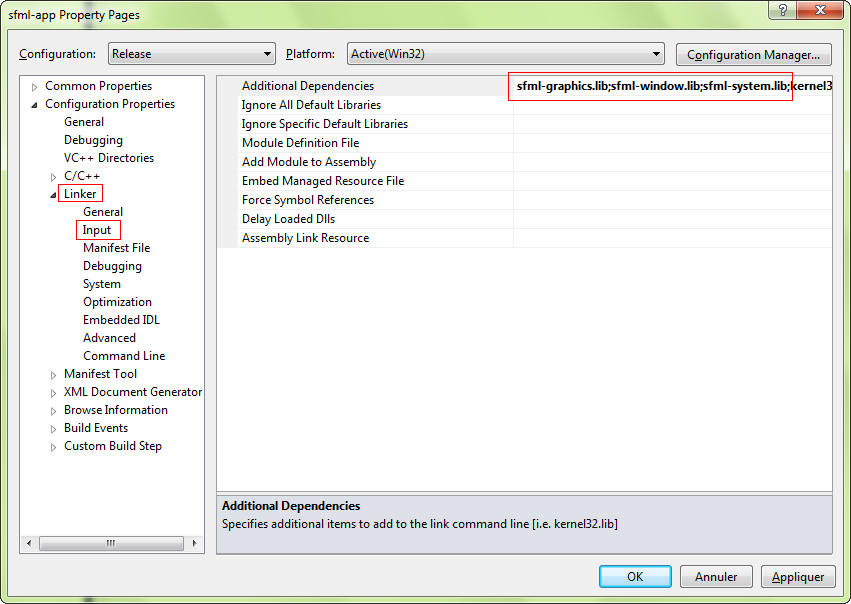
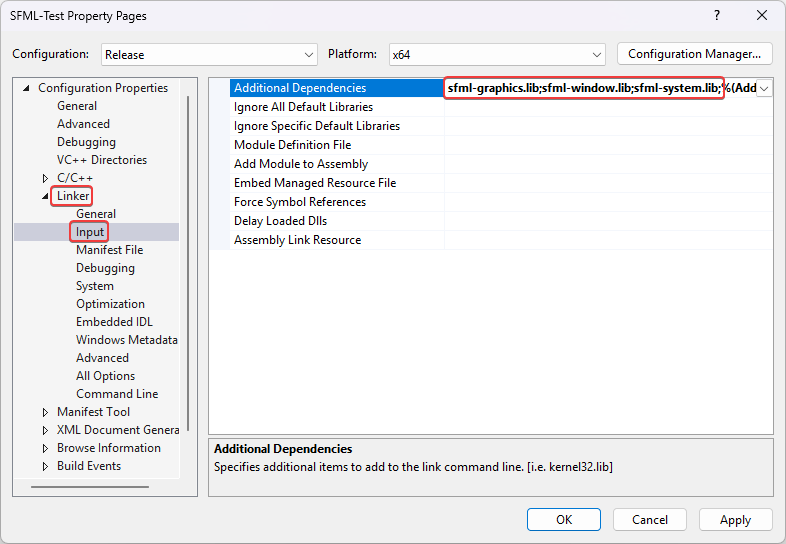
Update images for the Code::Blocks and Visual Studio tutorials

Changed region(s): [[0.0, 0.0, 1.0, 1.0]]

diff --git a/pages/tutorials/3.0/getting-started/visual-studio.md b/pages/tutorials/3.0/getting-started/visual-studio.md
@@ -25,12 +25,18 @@ The dialog window offers a few other options to customize the project: select "C
 For the purpose of this tutorial, you should create a `main.cpp` file and add it to the project, so that we have access to the C++ settings (otherwise Visual Studio doesn't know which language you're going to use for this project).
 We'll explain what to put inside later.
 
+First we need to configure the compiler to use the C++17 language standard as required by SFML 3.
+
+In the project's properties under "C/C++", "Language" tab, change the "C++ Language Standard" dropdown to "ISO C++ 17 Standard":
+
+![Screenshot of the dialog box for setting up the C++17 language standard](vc-standard.png "Screenshot of the dialog box for setting up the C++17 language standard")
+
 Now we need to tell the compiler where to find the SFML headers (.hpp files), and the linker where to find the SFML libraries (.lib files).
 
 In the project's properties, add:
 
-- The path to the SFML headers (_<sfml-install-path>/include_) to C/C++ > General > Additional Include Directories
-- The path to the SFML libraries (_<sfml-install-path>/lib_) to Linker > General > Additional Library Directories
+- The path to the SFML headers (`<sfml-install-path>/include`) to C/C++ > General > Additional Include Directories
+- The path to the SFML libraries (`<sfml-install-path>/lib`) to Linker > General > Additional Library Directories
 
 These paths are the same in both Debug and Release configuration, so you can set them globally for your project ("All configurations").
 
@@ -62,13 +68,13 @@ Some of these dependency libraries might already be listed under "Inherited valu
 
 Here are the dependencies of each module, append the -d as described above if you want to link the SFML debug libraries:
 
-| Module                | Dependencies                                                                                                            |
-| --------------------- | ----------------------------------------------------------------------------------------------------------------------- |
-| `sfml-graphics-s.lib` | - sfml-window-s.lib<br>- sfml-system-s.lib<br>- opengl32.lib<br>- freetype.lib                                          |
-| `sfml-window-s.lib`   | - sfml-system-s.lib<br>- opengl32.lib<br>- winmm.lib<br>- gdi32.lib                                                     |
+| Module                | Dependencies                                                                                          |
+| --------------------- | ----------------------------------------------------------------------------------------------------- |
+| `sfml-graphics-s.lib` | - sfml-window-s.lib<br>- sfml-system-s.lib<br>- opengl32.lib<br>- freetype.lib                        |
+| `sfml-window-s.lib`   | - sfml-system-s.lib<br>- opengl32.lib<br>- winmm.lib<br>- gdi32.lib                                   |
 | `sfml-audio-s.lib`    | - sfml-system-s.lib<br>- flac.lib<br>- vorbisenc.lib<br>- vorbisfile.lib<br>- vorbis.lib<br>- ogg.lib |
-| `sfml-network-s.lib`  | - sfml-system-s.lib<br>- ws2_32.lib                                                                                     |
-| `sfml-system-s.lib`   | - winmm.lib                                                                                                             |
+| `sfml-network-s.lib`  | - sfml-system-s.lib<br>- ws2_32.lib                                                                   |
+| `sfml-system-s.lib`   | - winmm.lib                                                                                           |
 
 You might have noticed from the table that SFML modules can also depend on one another, e.g. sfml-graphics-s.lib depends both on sfml-window-s.lib and sfml-system-s.lib.
 If you static link to an SFML library, make sure to link to the dependencies of the library in question, as well as the dependencies of the dependencies and so on.

diff --git a/pages/tutorials/3.0/getting-started/code-blocks.md b/pages/tutorials/3.0/getting-started/code-blocks.md
@@ -32,12 +32,18 @@ Code::Blocks offers a wide variety of project types, including an "SFML project"
 Instead, create an Empty project.
 If you want to get rid of the console, in the project properties, go to the "Build targets" tab and select "GUI application" in the combo box instead of "Console application".
 
+First we need to configure the compiler to use the C++17 language standard as required by SFML 3.
+
+In the project's "Build options", "Compiler settings", "Compiler flags" tab, tick the checkbox for the "C++17 ISO C++ language standard":
+
+![Screenshot of the dialog box for setting up the C++17 language standard](cb-standard.png "Screenshot of the dialog box for setting up the C++17 language standard")
+
 Now we need to tell the compiler where to find the SFML headers (.hpp files), and the linker where to find the SFML libraries (.a files).
 
 In the project's "Build options", "Search directories" tab, add:
 
-- The path to the SFML headers (_<sfml-install-path>/include_) to the Compiler search directories
-- The path to the SFML libraries (_<sfml-install-path>/lib_) to the Linker search directories
+- The path to the SFML headers (`<sfml-install-path>/include`) to the Compiler search directories
+- The path to the SFML libraries (`<sfml-install-path>/lib`) to the Linker search directories
 
 These paths are the same in both Debug and Release configuration, so you can set them globally for your project.
 
@@ -73,13 +79,13 @@ Some of these dependency libraries might already be listed under "Inherited valu
 
 Here are the dependencies of each module, append the -d as described above if you want to link the SFML debug libraries:
 
-| Module            | Dependencies                                                                                |
-| ----------------- | ------------------------------------------------------------------------------------------- |
-| `sfml-graphics-s` | - sfml-window-s<br>- sfml-system-s<br>- opengl32<br>- freetype                              |
-| `sfml-window-s`   | - sfml-system-s<br>- opengl32<br>- winmm<br>- gdi32                                         |
+| Module            | Dependencies                                                                  |
+| ----------------- | ----------------------------------------------------------------------------- |
+| `sfml-graphics-s` | - sfml-window-s<br>- sfml-system-s<br>- opengl32<br>- freetype                |
+| `sfml-window-s`   | - sfml-system-s<br>- opengl32<br>- winmm<br>- gdi32                           |
 | `sfml-audio-s`    | - sfml-system-s<br>- flac<br>- vorbisenc<br>- vorbisfile<br>- vorbis<br>- ogg |
-| `sfml-network-s`  | - sfml-system-s<br>- ws2_32                                                                 |
-| `sfml-system-s`   | - winmm                                                                                     |
+| `sfml-network-s`  | - sfml-system-s<br>- ws2_32                                                   |
+| `sfml-system-s`   | - winmm                                                                       |
 
 You might have noticed from the table that SFML modules can also depend on one another, e.g.
 sfml-graphics-s depends both on sfml-window-s and sfml-system-s.

diff --git a/pages/tutorials/3.0/getting-started/macos.md b/pages/tutorials/3.0/getting-started/macos.md
@@ -54,15 +54,12 @@ Then, in order to start developing SFML applications, you have to install the fo
     Only one type of binary is required although both can be installed simultaneously on the same system.
     We recommend using the frameworks.
     - _frameworks_  
-        Copy the content of Frameworks to /Library/Frameworks.
+        Copy the content of Frameworks to `/Library/Frameworks`.
     - _dylib_  
-        Copy the content of lib to /usr/local/lib and copy the content of include to /usr/local/include.
-- **SFML dependencies**  
-    SFML depends on a few external libraries on macOS.
-    Copy the content of extlibs to /Library/Frameworks.
+        Copy the content of lib to `/usr/local/lib` and copy the content of include to `/usr/local/include`.
 - **Xcode templates**  
     This feature is optional but we strongly recommend that you install it.
-    Copy the SFML directory from templates to ~/Library/Developer/Xcode/Templates (create the folders if they don't exist yet).
+    Copy the SFML directory from templates to `~/Library/Developer/Xcode/Templates` (create the folders if they don't exist yet).
 
 ## Create your first SFML program
 

diff --git a/pages/tutorials/3.0/getting-started/build-from-source.md b/pages/tutorials/3.0/getting-started/build-from-source.md
@@ -29,6 +29,8 @@ Here is a list of what you need to install before building SFML:
 - freetype
 - x11
 - xrandr
+- xcursor
+- xi
 - udev
 - opengl
 - flac
@@ -83,7 +85,7 @@ In fact there are two different ways to run it:
 - **cmake**  
    This is the direct call to CMake.
    If you use this, you must specify all the option names and their values as command line parameters.
-To print out a list of all options, run cmake -L.
+To print out a list of all options, run `cmake -L`.
 
 In this tutorial we will be using cmake-gui, as this is what most beginners are likely to use.
 We assume that people who use the command line variants can refer to the CMake documentation for their usage.

diff --git a/pages/tutorials/3.0/getting-started/linux.md b/pages/tutorials/3.0/getting-started/linux.md
@@ -83,7 +83,7 @@ In case you installed SFML to a non-standard path, you'll need to tell the compi
 g++ -c main.cpp -I<sfml-install-path>/include
 ```
 
-Here, `<sfml-install-path>` is the directory where you copied SFML, for example */home/me/sfml*.
+Here, `<sfml-install-path>` is the directory where you copied SFML, for example `/home/me/sfml`.
 
 You must then link the compiled file to the SFML libraries in order to get the final executable.
 SFML is made of 5 modules (system, window, graphics, network and audio), and there's one library for each of them.

diff --git a/pages/tutorials/3.0/getting-started/cmake.md b/pages/tutorials/3.0/getting-started/cmake.md
@@ -41,6 +41,7 @@ A similar process will be required for non-Debian Linux distributions like Fedor
 sudo apt update sudo apt install \
      libxrandr-dev \
      libxcursor-dev \
+     libxi-dev \
      libudev-dev \
      libflac-dev \
      libvorbis-dev \ 

diff --git a/pages/faq/general.md b/pages/faq/general.md
@@ -42,7 +42,6 @@ Here is a list of what you need to install before compiling SFML:
 - xrandr
 - xcursor
 - freetype
-- openal
 - flac
 - vorbis
 
